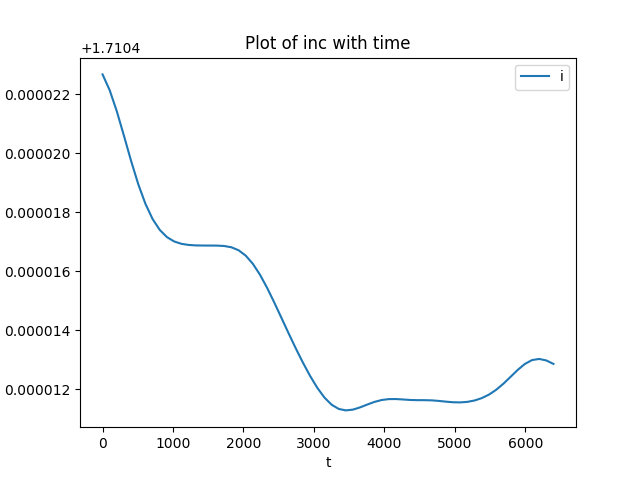
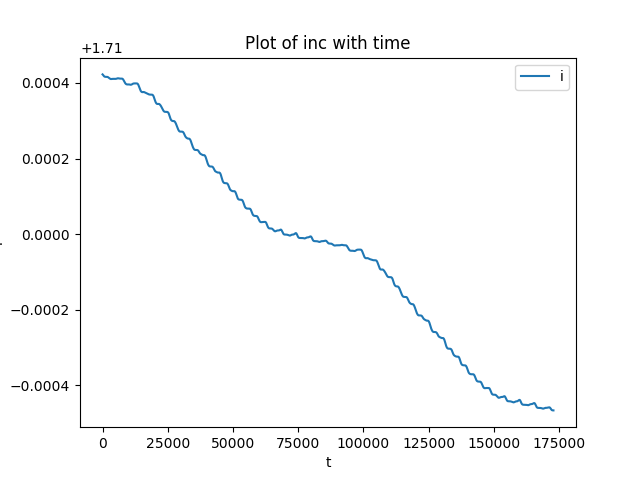
Test modifications

diff --git a/python_codes/deorbit_sat.py b/python_codes/deorbit_sat.py
@@ -14,14 +14,13 @@ def deorbit(r0, vr0, v_tan0, inc, theta0, phi0, tether_len, tether_res,
     tether_sat = teth.tether(tether_len, tether_res)
     satel = sat.satellite(sat_m, sat_I, 1, tether_sat, r0, v_r, theta0, v_t,
                           phi0, v_p, 0)
-    state_arr, orb_arr, pow_arr, en_arr, acc_arr = sat.getorbit(satel, tfinal,
-                                                                tstep)
+    state_arr, orb_arr, pow_arr, en_arr, acc_arr, vdot_arr1, vdot_arr2 = sat.getorbit(satel, tfinal, tstep)
     pow_arr2 = np.zeros(len(pow_arr))
     for i in range(len(pow_arr)):
         pedot = sat.G*sat.M_EARTH*sat_m/state_arr[0, i]**2*state_arr[1, i]
         vel = [state_arr[1, i], state_arr[3, i], state_arr[5, i]]
         pow_arr2[i] = np.dot(acc_arr[:, i], vel)*sat_m + pedot
-    return state_arr, orb_arr, pow_arr, pow_arr2, en_arr, acc_arr
+    return state_arr, orb_arr, pow_arr, pow_arr2, en_arr, acc_arr, vdot_arr1, vdot_arr2
 
 
 def plotparam(n_prefix, n_suffix, tfinal, states, orb_elems, pow_diff, en_arr):
@@ -59,9 +58,10 @@ def plotparam(n_prefix, n_suffix, tfinal, states, orb_elems, pow_diff, en_arr):
 
 def main():
     """Deorbit the satellite."""
-    state_arr, orb_arr, pow_arr, pow_arr2, en_arr, acc_arr = deorbit(
-        7.048e6, 0.0, 7520.083379159564, 98.0, np.pi/2.0, 0.0, 100.0, 10.0,
-        10.0, np.zeros((3, 3)), 6400.0, 0.001)
+    print('starting')
+    state_arr, orb_arr, pow_arr, pow_arr2, en_arr, acc_arr, vdot_arr1, vdot_arr2 = deorbit(
+        6.91e6, 0.0, 7594.80416494773, 98.0, np.pi/2.0, 0.0, 100.0, 10.0,
+        10.0, np.zeros((3, 3)), 172800.0, 0.1)
     powdiff = pow_arr - pow_arr2
-    plotparam('98', '1orb', 6400.0, state_arr, orb_arr, powdiff, en_arr)
-    return state_arr, orb_arr, pow_arr, pow_arr2, en_arr, acc_arr
+    plotparam('98', '1orb', 172800.0, state_arr, orb_arr, powdiff, en_arr)
+    return state_arr, orb_arr, pow_arr, pow_arr2, en_arr, acc_arr, vdot_arr1, vdot_arr2

diff --git a/python_codes/satellite.py b/python_codes/satellite.py
@@ -167,25 +167,36 @@ def getorbit(sat, tfinal, dt):
     state_arr = np.zeros((6, n_t))
     orbelem_arr = np.zeros((6, n_t))
     acc_arr = np.zeros((3, n_t))
+    vdot_arr1 = np.zeros((3, n_t))
+    vdot_arr2 = np.zeros((3, n_t))
     pow_arr = np.zeros(n_t)
     en_arr = np.zeros(n_t)
     en0 = sat.geten()
+    v0 = sat.getvel_sph()
     count = 0
     for i in range(ntimes):
         sat.rk4_step(dt, tot_acc)
         en1 = sat.geten()
-        pow1 = (en1 - en0)*1000
+        pow1 = (en1 - en0)/dt
         en0 = en1
+        v1 = sat.getvel_sph()
+        vdot1 = (v1 - v0)/dt
+        v0 = v1
         if (i % (100/dt) == 0):
             state_arr[:, count] = sat.getstate()
             orbelem_arr[:, count] = sat.orb_elem()
             acc_arr[:, count] = tot_acc(sat)
+            vdot_arr1[:, count] = sat.getvdot(acc_arr[0, count],
+                                              acc_arr[1, count],
+                                              acc_arr[2, count])
+            vdot_arr2[:, count] = vdot1
             pow_arr[count] = pow1
             en_arr[count] = sat.geten()
             print (state_arr[0, count])
             print (count)
             count += 1
-    return state_arr, orbelem_arr, pow_arr, en_arr, acc_arr
+    return (state_arr, orbelem_arr, pow_arr, en_arr, acc_arr, vdot_arr1,
+            vdot_arr2)
 
 
 def plotfig(name, title, xlabel, ylabel, xdata, ydata, legend):

diff --git a/python_codes/tether.py b/python_codes/tether.py
@@ -63,10 +63,16 @@ def getB_NED(lat, longit, r, t):  # time in decimal year
     return B_x*10**-9, B_y*10**-9, B_z*10**-9
 
 
-def getB_sph(lat, longit, r, t):
-    """Return B in spherical coordinates."""
+def getB_ecef(lat, longit, r, t):
+    """Return B in ECEF spherical coordinates."""
     B_north, B_east, B_down = getB_NED(lat, longit, r, t)
     B_r = -1*B_down
     B_t = -1*B_north
     B_p = B_east
     return B_r, B_t, B_p
+
+def getB_sph(lat, longit, r, t):
+    """Return B in spherical coordinates - ECI."""
+    B_r_ec, B_t_ec, B_p_ec = getB_ecef(lat, longit, r, t)
+    alp = 2*np.pi/86164.09164*t
+    
